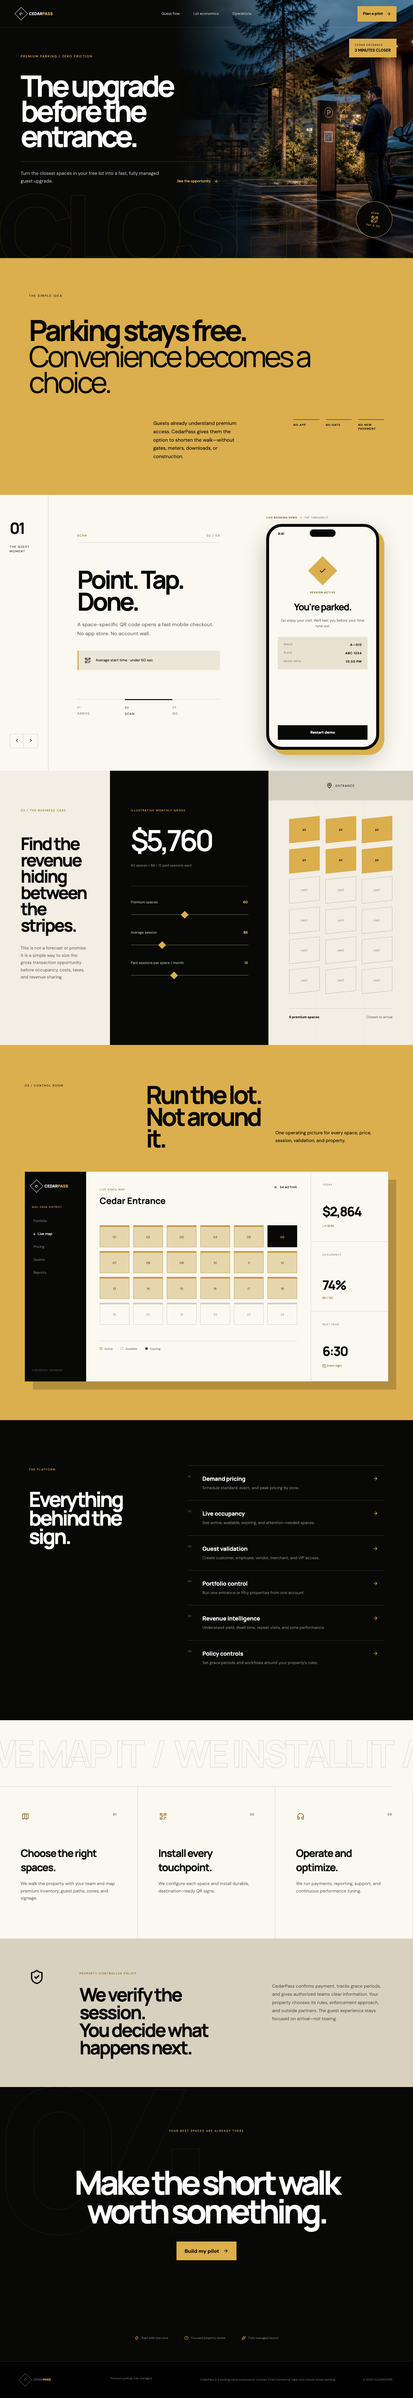
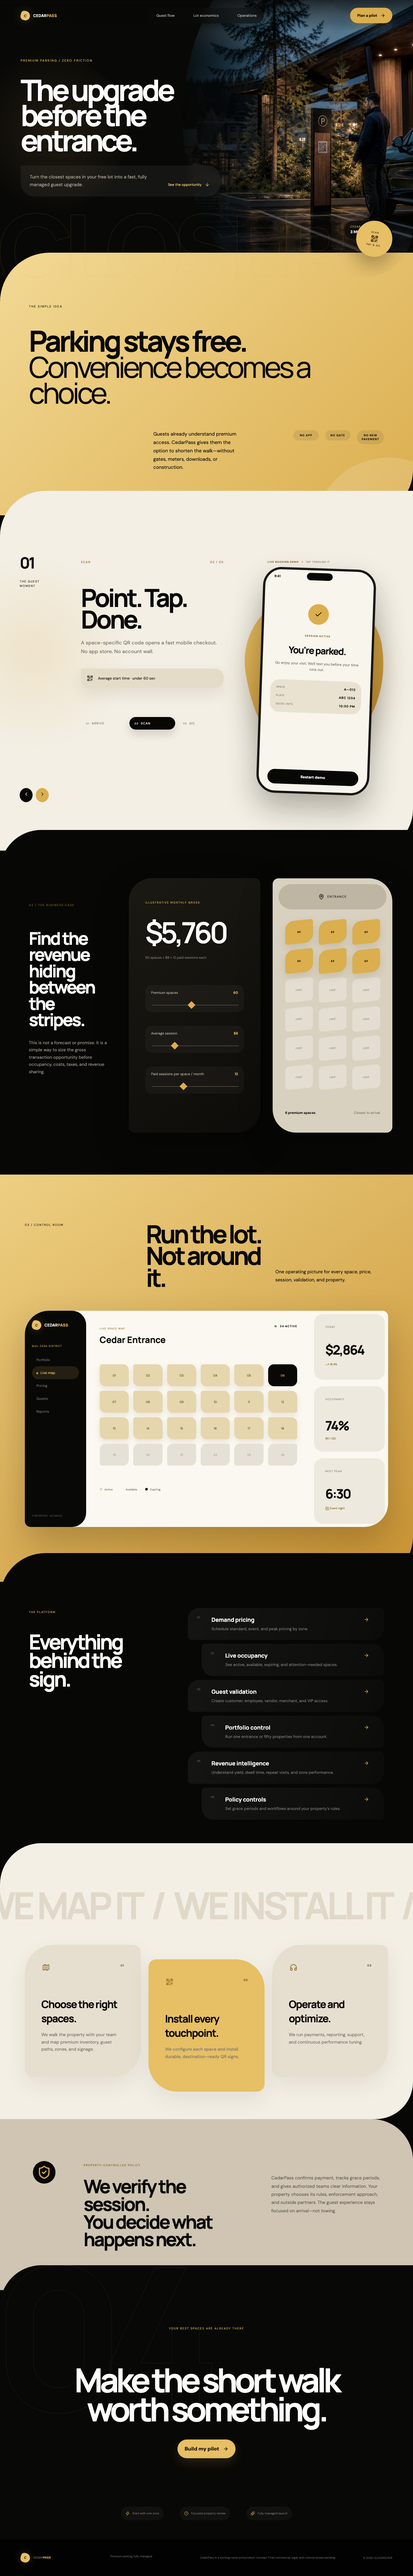
Redesign CedarPass with organic premium visual system

diff --git a/src/styles.css b/src/styles.css
@@ -17,3 +17,18 @@
 .phone-demo{margin:65px 4vw 65px 0;align-self:center;display:flex;flex-direction:column;align-items:center}.phone-label{width:350px;display:flex;align-items:center;gap:9px;margin-bottom:15px;font-size:.48rem;letter-spacing:.14em;color:#6d685f}.phone-label>span{color:#7c5b17;font-weight:700}.phone-label i{width:4px;height:4px;background:var(--gold);transform:rotate(45deg)}.phone-shell{width:350px;height:700px;background:var(--white);border:9px solid var(--black);border-radius:48px;overflow:hidden;position:relative;box-shadow:16px 16px 0 var(--gold),0 30px 70px rgba(0,0,0,.24)}.phone-status{height:42px;display:flex;justify-content:space-between;align-items:center;padding:0 27px;font-size:.64rem;font-weight:700}.phone-status i{position:absolute;top:8px;left:50%;transform:translateX(-50%);width:80px;height:23px;border-radius:20px;background:var(--black)}.phone-screen{height:calc(100% - 42px);padding:22px 27px;display:flex;flex-direction:column}.phone-screen .logo{font-size:.68rem}.phone-screen .logo-glyph{width:23px;height:23px}.phone-space{margin-top:38px;display:flex;flex-direction:column}.phone-space>span,.phone-kicker{font-size:.48rem;letter-spacing:.17em;color:#7b5a16;font-weight:700}.phone-space>strong{font:800 3.6rem 'Manrope';letter-spacing:-.08em}.phone-space>small{font-size:.52rem;letter-spacing:.14em;color:#746f65}.phone-screen h3{font-size:1.8rem;line-height:1.02;letter-spacing:-.05em;margin:26px 0 18px}.phone-price{display:flex;gap:16px;align-items:center;border-top:1px solid var(--line);border-bottom:1px solid var(--line);padding:18px 0;margin-bottom:25px}.phone-price>strong{font:700 2rem 'Manrope'}.phone-price span{font-size:.53rem;line-height:1.5;color:var(--muted)}.phone-screen>button:not(.phone-back){border:0;background:var(--black);color:white;padding:15px;display:flex;align-items:center;justify-content:center;gap:9px;font-size:.72rem;font-weight:700}.phone-screen>button svg{width:16px}.phone-screen>small{text-align:center;font-size:.46rem;letter-spacing:.1em;color:#868177;margin-top:13px}.phone-back{align-self:flex-start;border:0;background:none;padding:0;color:var(--muted);font-size:.67rem;margin:3px 0 30px}.phone-form label{display:flex;flex-direction:column;gap:7px;font-size:.52rem;letter-spacing:.1em;font-weight:700;margin-top:16px}.phone-form input,.phone-form select{border:1px solid var(--line);background:white;padding:14px;color:var(--black);font:600 .78rem 'DM Sans'}.phone-summary{display:flex;justify-content:space-between;align-items:center;border-top:1px solid var(--line);padding:19px 0;margin-top:auto;font-size:.63rem}.phone-summary strong{font-size:.9rem}.phone-pay .apple-pay{background:#000!important;margin:25px 0 18px}.pay-or{text-align:center;font-size:.48rem;letter-spacing:.12em;color:var(--muted);margin-bottom:18px}.card-line{border:1px solid var(--line);background:white;padding:15px;display:flex;align-items:center;gap:12px;font-size:.68rem}.card-line svg{width:18px;color:#7b5a16}.phone-success{text-align:center;align-items:stretch}.success-check{width:64px;height:64px;background:var(--gold);display:grid;place-items:center;transform:rotate(45deg);margin:40px auto 30px}.success-check svg{transform:rotate(-45deg)}.phone-success>p{font-size:.7rem;line-height:1.55;color:var(--muted);margin-bottom:25px}.active-ticket{background:#e9e2d1;padding:18px;display:flex;flex-direction:column;gap:13px;margin-bottom:25px}.active-ticket span{display:flex;justify-content:space-between;font-size:.5rem;letter-spacing:.1em;color:var(--muted)}.active-ticket strong{color:var(--black);font-size:.62rem}.phone-success>button{margin-top:auto}
 @media(max-width:900px){.phone-demo{grid-column:2;margin:0 24px 80px}}
 @media(max-width:560px){.phone-demo{grid-column:1;margin:0 12px 70px}.phone-label,.phone-shell{width:320px}.phone-shell{height:665px}}
+
+/* 2026 organic luxury redesign — sculpted surfaces, not outlined boxes */
+:root{--ink:#070705;--ink-soft:#11100c;--champagne:#e7bf64;--champagne-soft:#f2d995;--cream:#f3efe5;--smoke:#d8d1c2}
+body{background:var(--ink);overflow-x:hidden}.header{height:96px;border:0;padding:0 5vw;background:linear-gradient(180deg,rgba(7,7,5,.72),transparent);backdrop-filter:none}.logo-glyph{border:0;border-radius:40% 60% 55% 45%;background:var(--champagne);color:var(--ink);transform:rotate(12deg);box-shadow:0 0 30px rgba(231,191,100,.24)}.header nav{padding:8px;border-radius:999px;background:rgba(11,11,8,.46);backdrop-filter:blur(18px)}.header nav button{padding:9px 14px;border-radius:999px}.header-cta,.closing>button,.modal-action{border-radius:999px;padding-left:22px;padding-right:22px;box-shadow:0 14px 35px rgba(219,174,78,.16)}
+.hero{min-height:860px;border-radius:0 0 12vw 0}.hero:before{content:"";position:absolute;z-index:2;left:-12vw;top:18%;width:43vw;height:43vw;border-radius:40% 60% 63% 37%/46% 41% 59% 54%;background:radial-gradient(circle at 60% 45%,rgba(231,191,100,.11),transparent 58%);filter:blur(1px)}.hero-image{width:62%;clip-path:ellipse(72% 78% at 82% 43%)}.hero-image:after{background:linear-gradient(90deg,var(--ink) 4%,transparent 52%),linear-gradient(0deg,rgba(7,7,5,.72),transparent 55%)}.hero-image img{filter:saturate(.68) contrast(1.08) sepia(.08)}.image-tag{top:auto;bottom:14%;right:5vw;border-radius:999px;background:rgba(7,7,5,.72);color:white;padding:13px 19px;backdrop-filter:blur(18px);box-shadow:0 18px 50px rgba(0,0,0,.28)}.image-tag span{color:var(--champagne)}.hero-copy-block>div{border:0;padding:24px 28px;border-radius:0 42px 42px 42px;background:rgba(255,255,255,.055);backdrop-filter:blur(12px)}.hero-seal{border:0;background:var(--champagne);color:var(--ink);box-shadow:0 25px 60px rgba(0,0,0,.3)}
+.statement{position:relative;margin-top:-6vw;padding:160px 7vw 120px;background:linear-gradient(135deg,var(--champagne-soft),var(--gold));border-radius:12vw 0 11vw 0;overflow:hidden}.statement:after{content:"";position:absolute;width:36vw;height:36vw;right:-12vw;bottom:-22vw;border-radius:50%;background:rgba(255,255,255,.15)}.statement-foot strong{border:0;padding:10px 15px;border-radius:999px;background:rgba(7,7,5,.08);text-align:center}
+.journey{position:relative;margin-top:-6vw;padding:150px 4vw 110px;grid-template-columns:110px 1.1fr .9fr;gap:3vw;background:var(--cream);border-radius:11vw 0 10vw 0;overflow:hidden}.journey:before{content:"";position:absolute;inset:0;background:radial-gradient(circle at 8% 45%,rgba(219,174,78,.18),transparent 23%);pointer-events:none}.journey-sidebar{border:0;padding:40px 10px;position:relative}.journey-controls{gap:10px}.journey-controls button{border:0;border-radius:50%;background:var(--ink);color:white}.journey-controls button+button{border:0;background:var(--gold);color:var(--ink)}.journey-stage{padding:65px 4vw 50px;position:relative}.journey-head{border:0}.journey-stage h2{margin-top:55px}.journey-detail{border:0;border-radius:0 26px 26px 26px;background:#e5dcc8;box-shadow:0 20px 45px rgba(54,42,16,.09)}.journey-tabs{gap:8px}.journey-tabs button{border:0!important;border-radius:999px;padding:13px 16px;background:transparent}.journey-tabs button span{display:inline;margin-right:7px}.journey-tabs button.active{background:var(--ink);color:white;box-shadow:0 14px 28px rgba(0,0,0,.14)}
+.phone-demo{position:relative}.phone-demo:before{content:"";position:absolute;z-index:0;width:430px;height:520px;top:100px;border-radius:48% 52% 64% 36%/41% 38% 62% 59%;background:linear-gradient(150deg,var(--champagne),#b98125);transform:rotate(-8deg);filter:drop-shadow(0 35px 45px rgba(76,52,8,.23))}.phone-label,.phone-shell{position:relative;z-index:1}.phone-label{width:330px;margin-left:28px}.phone-shell{border:7px solid #17150f;border-radius:58px;box-shadow:0 45px 90px rgba(21,16,5,.3);transform:rotate(2deg);background:#f8f5ec}.phone-screen>button:not(.phone-back){border-radius:999px}.phone-price,.phone-summary{border:0;background:#ebe4d5;border-radius:22px;padding:16px;margin-top:5px}.phone-form input,.phone-form select,.card-line{border:0;border-radius:16px;background:#ebe4d5}.success-check{border-radius:50%;transform:none}.success-check svg{transform:none}.active-ticket{border-radius:28px;background:#e9e2d1}
+.economics{position:relative;margin-top:-5vw;padding:150px 5vw 130px;grid-template-columns:.8fr 1.1fr 1fr;gap:3vw;background:var(--ink);color:white;border-radius:10vw 0 0 0}.economics-intro{padding:70px 2vw;border:0}.economics-intro p{color:#989287}.calculator{padding:62px 4vw;border-radius:72px 18px 72px 18px;background:linear-gradient(145deg,#1b1913,#0d0c09);box-shadow:0 35px 100px rgba(0,0,0,.35),inset 0 1px rgba(255,255,255,.05)}.calc-result{border:0;padding-bottom:35px}.calculator label{padding:16px 18px;border-radius:20px;background:rgba(255,255,255,.035)}input[type=range]{border-radius:99px}.lot-map{padding:130px 3vw 55px;border-radius:18px 72px 18px 72px;background:#d9d1c0;color:var(--ink);overflow:hidden;box-shadow:0 35px 100px rgba(0,0,0,.28)}.lot-map .venue{margin:18px;border-radius:40px;height:78px;background:#beb5a2}.lot-map>i{border:0;border-radius:12px;min-height:72px;background:rgba(255,255,255,.28)}.lot-map>i.premium{border-radius:26px 8px 26px 8px;box-shadow:0 10px 24px rgba(102,73,14,.15)}.lot-map>p{border:0}
+.operate{position:relative;padding:150px 6vw 170px;background:linear-gradient(145deg,#edcf82,#c99333);border-radius:0 0 11vw 0}.control-room{height:670px;border-radius:74px 18px 74px 18px;overflow:hidden;box-shadow:0 45px 110px rgba(53,35,4,.28);grid-template-columns:190px 1fr 240px}.control-nav{border-radius:0 44px 44px 0}.control-nav button{border-radius:999px;padding-left:14px}.control-nav button.active{background:rgba(231,191,100,.13);color:var(--champagne)}.space-grid{gap:14px}.space-grid span{border:0;border-radius:18px 7px 18px 7px;background:#e6e1d6}.space-grid span.active{border:0;border-radius:7px 18px 7px 18px;box-shadow:0 8px 18px rgba(113,81,13,.12)}.space-grid span.attention{border-radius:18px}.map-legend,.control-stats{border:0}.map-legend i{border:0;border-radius:50%}.control-stats>div{border:0;margin:10px;border-radius:28px;background:#eee9de}
+.toolkit{position:relative;margin-top:-7vw;padding:170px 7vw 150px;border-radius:11vw 0 10vw 0;background:var(--ink)}.tool-list{display:flex;flex-direction:column;gap:12px}.tool-list article{border:0;padding:24px 28px;border-radius:36px 12px 36px 12px;background:linear-gradient(110deg,rgba(255,255,255,.055),rgba(255,255,255,.018));transition:transform .25s,background .25s}.tool-list article:nth-child(even){margin-left:7%;border-radius:12px 36px 12px 36px}.tool-list article:hover{transform:translateX(8px);background:rgba(231,191,100,.1)}
+.service{position:relative;margin-top:-6vw;padding-top:90px;border-radius:10vw 0 9vw 0;background:var(--cream)}.service-marquee{border:0;-webkit-text-stroke:0;color:#d6cdbb;opacity:.65}.service-grid{gap:24px;padding:20px 6vw 130px}.service-grid>div{border:0;min-height:410px;border-radius:90px 24px 90px 24px;background:#e6decf;padding:58px 4vw;box-shadow:0 25px 65px rgba(44,34,15,.08)}.service-grid>div:nth-child(2){transform:translateY(45px);border-radius:24px 90px 24px 90px;background:var(--champagne)}
+.policy{padding:130px 8vw;border-radius:0 10vw 0 0;background:#cfc5b2}.policy>svg{padding:13px;width:70px;height:70px;border-radius:50%;background:var(--ink);color:var(--gold)}.closing{margin-top:-6vw;padding-top:190px;border-radius:10vw 0 0 0}.closing>button{background:var(--champagne)}.closing-notes span{padding:9px 14px;border-radius:999px;background:rgba(255,255,255,.04)}footer{border:0}.modal{border-radius:64px 18px 64px 18px;box-shadow:0 40px 120px rgba(0,0,0,.5)}.modal>div span{border:0;border-radius:999px;padding:12px;background:rgba(0,0,0,.08)}
+@media(max-width:900px){.journey{grid-template-columns:70px 1fr;padding-left:18px;padding-right:18px}.phone-demo{grid-column:2}.economics{grid-template-columns:1fr;padding:130px 24px}.lot-map{min-height:650px}.control-room{border-radius:44px 12px 44px 12px}.toolkit{padding-left:24px;padding-right:24px}.service-grid{grid-template-columns:1fr}.service-grid>div:nth-child(2){transform:none}.policy{border-radius:0}}
+@media(max-width:560px){.header{height:82px}.header nav{border-radius:0 0 30px 30px}.hero{border-radius:0 0 70px 0;min-height:820px}.hero-image{width:100%;clip-path:ellipse(98% 65% at 75% 31%)}.hero-copy-block>div{border-radius:0 28px 28px 28px}.statement{border-radius:70px 0 65px 0;padding-top:120px}.journey{grid-template-columns:1fr;border-radius:65px 0;padding:120px 12px 80px}.journey-stage{padding-left:12px;padding-right:12px}.phone-demo{grid-column:1}.phone-demo:before{width:340px;height:470px}.phone-shell{transform:none}.economics{border-radius:65px 0 0 0}.calculator,.lot-map{border-radius:42px 12px 42px 12px}.operate{border-radius:0 0 65px 0}.toolkit{border-radius:70px 0}.tool-list article,.tool-list article:nth-child(even){margin-left:0;border-radius:28px 10px 28px 10px}.service{border-radius:65px 0}.service-grid{padding-left:18px;padding-right:18px}.service-grid>div{border-radius:55px 16px 55px 16px}.closing{border-radius:65px 0 0 0}.modal{border-radius:42px 14px 42px 14px}}
